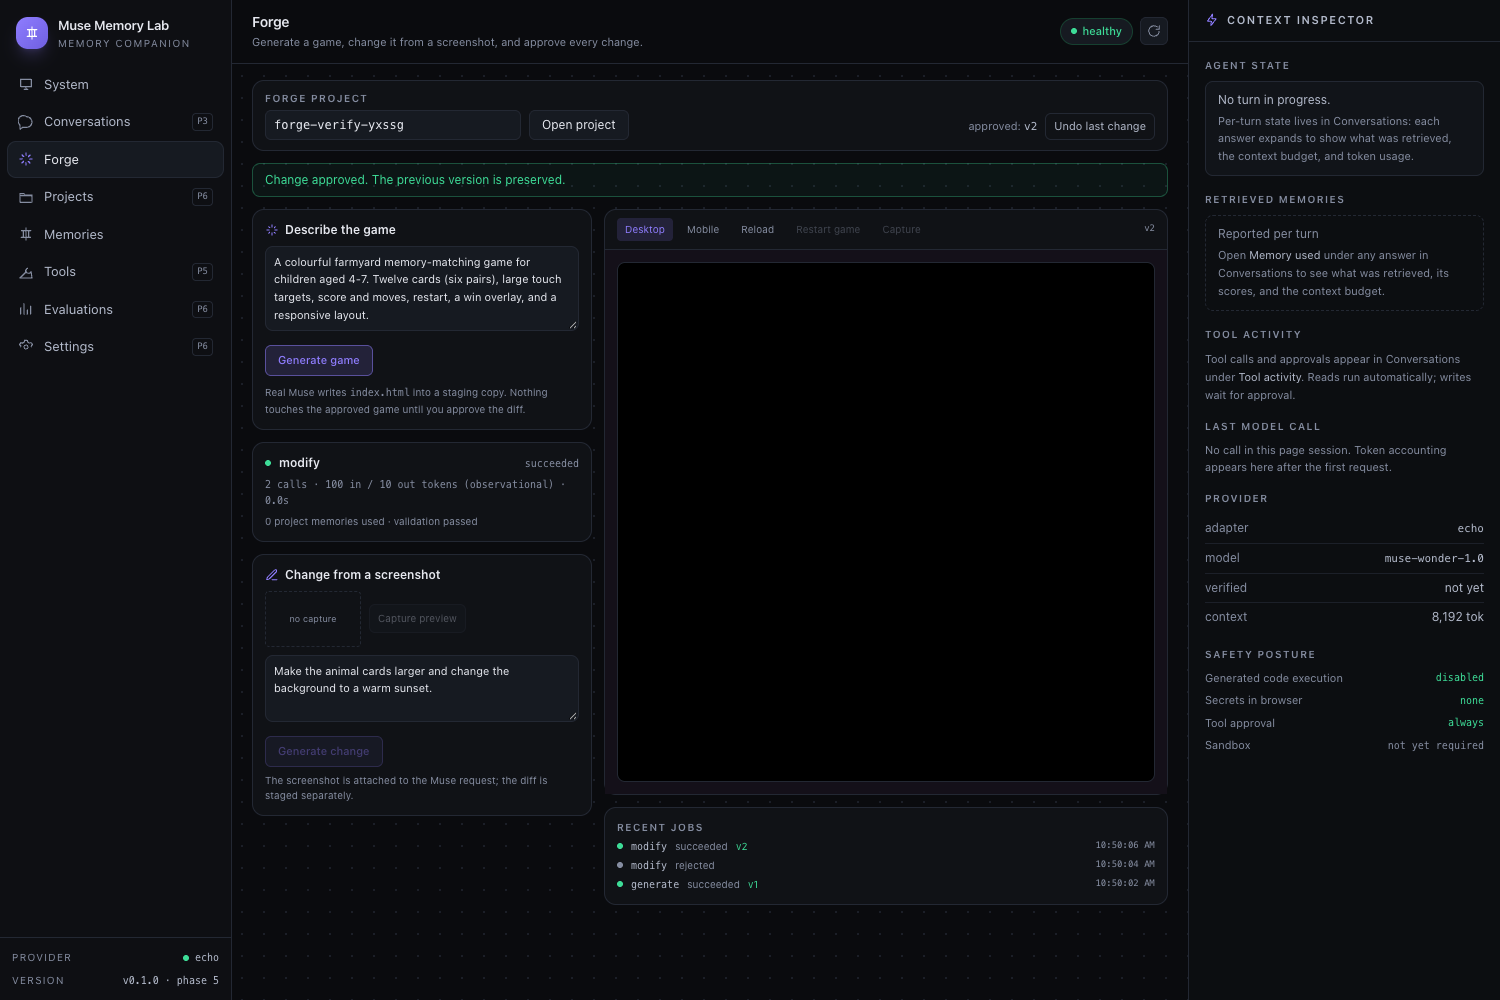
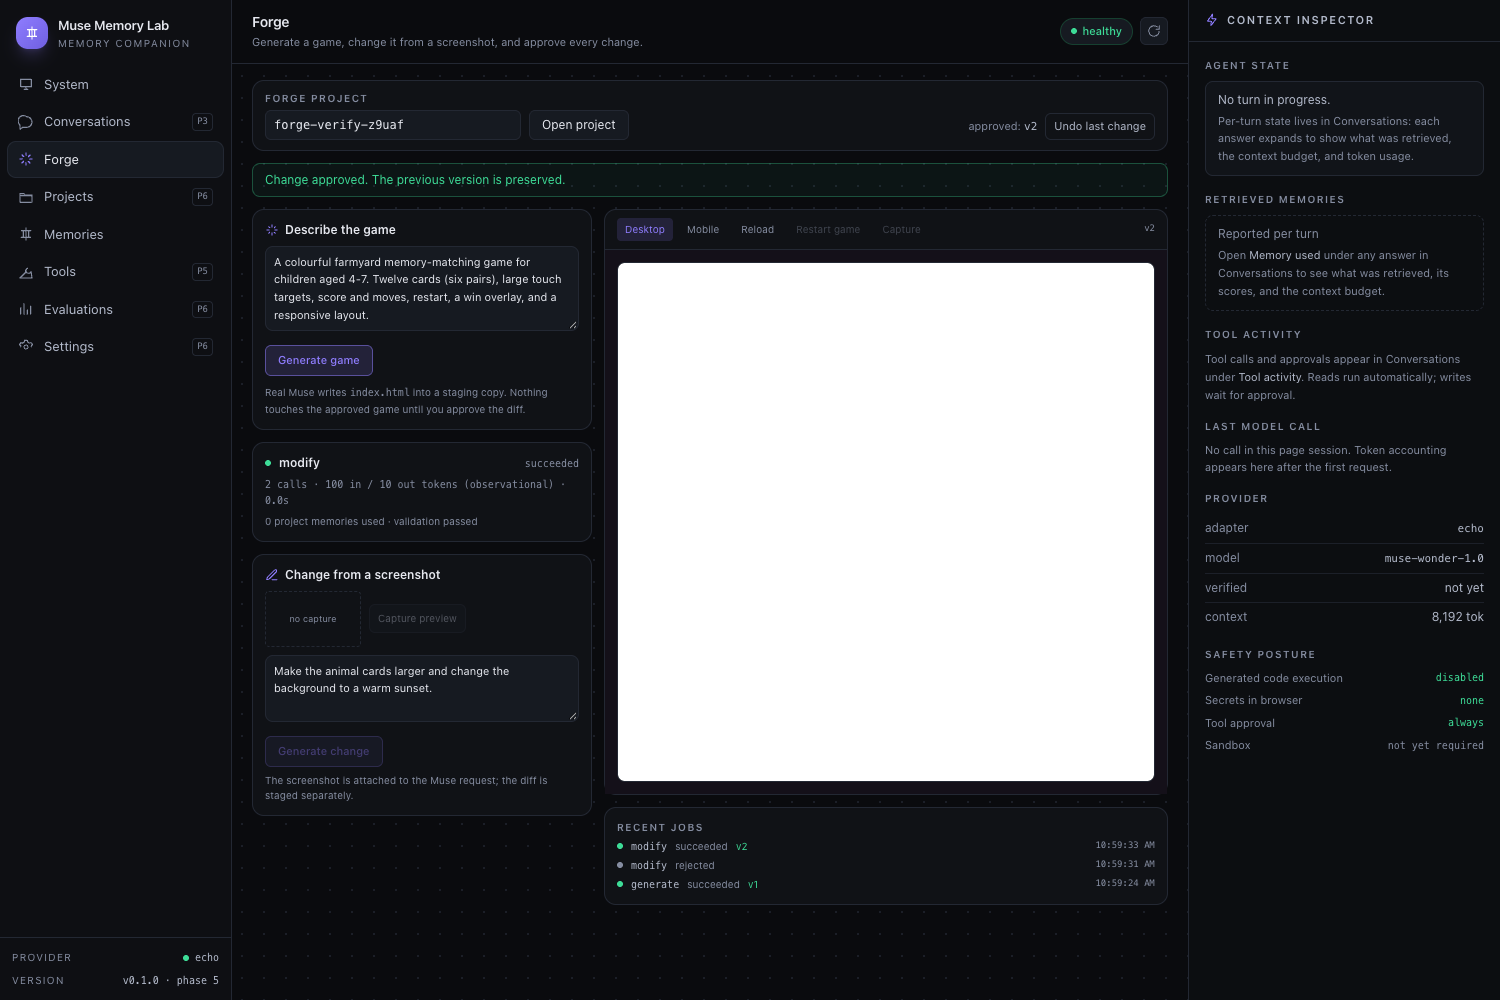
fix(forge): inject capture bridge before Phaser loads (D2 follow-up)
The bridge was inserted at the end of <head>. When the generated game put the
Phaser CDN script in <head>, the library had already assigned window.Phaser;
redefining the property with an accessor replaced it with undefined, so the
preview threw "Cannot read properties of undefined (reading 'Scene')".

- inject the bridge immediately after <head> opens, before any script
- verified on the real Muse-generated game: Phaser 3.80.1 loads, the preview
  renders, and capture via renderer.snapshot returns a 142 KB non-blank PNG
  (luminance range 197, 4,093 colourful pixels)
- full browser regression still 9/9 with no console errors
- docs record Phase 10 results, including the remaining real-modification run
  blocked by Muse subscription quota (429)

295 tests pass; lint, typecheck and build clean.

Changed region(s): [[0.3987, 0.248, 0.7667, 0.806]]

diff --git a/apps/server/src/routes/forge.ts b/apps/server/src/routes/forge.ts
@@ -236,8 +236,13 @@ window.addEventListener('error',function(event){
 });
 })();</script>`;
 function withCaptureBridge(html: string): string {
-  // Before the game script: the bridge must be able to wrap Phaser.Game.
-  if (html.includes('</head>')) return html.replace('</head>', `${CAPTURE_BRIDGE}</head>`);
+  // Must run before the Phaser CDN script: defining window.Phaser after the CDN
+  // has assigned it would replace the library with our accessor.
+  const head = /<head[^>]*>/i.exec(html);
+  if (head) {
+    const at = head.index + head[0].length;
+    return `${html.slice(0, at)}${CAPTURE_BRIDGE}${html.slice(at)}`;
+  }
   return `${CAPTURE_BRIDGE}${html}`;
 }
 

diff --git a/docs/MUSE_FORGE_MVP.md b/docs/MUSE_FORGE_MVP.md
@@ -111,3 +111,67 @@ valid and Phaser-based, but the game threw at runtime (`Graphics.fillStar` does 
 preview now reports runtime errors to the host, shows a red badge, and **disables approval**
 until the change is regenerated or rejected. The measured run predates that gate: it approved
 v2, observed the error, and rolled back to v1.
+
+## Phase 10 hardening (audit fixes)
+
+**D1 — modifications start from the approved source.** A modify job now copies the
+current approved `index.html` into staging, records `base_version` on the job, and tells Muse to
+edit that file in place rather than regenerate it. Modifying a project with no approved version
+is refused (409). Tests assert that unrelated source (`FARM_MARKER`) survives a modification.
+
+**D2 — valid captures.** The capture bridge is injected into `<head>` and wraps `Phaser.Game`
+when the CDN assigns `window.Phaser`, so capture can use `renderer.snapshot()` instead of
+`canvas.toDataURL()` on a cleared WebGL buffer. Captures with no luminance range or colour
+variety are rejected before they reach a model request; screenshots smaller than 32×32 are
+rejected by the server. The browser test asserts a non-blank image captured via
+`renderer.snapshot`.
+
+**D3 — server-side runtime verification.** Approval loads the staged game in headless Chrome
+(`playwright-core`, already installed) and fails on page errors, console errors or a missing
+canvas. A failing check marks the job failed, stores the errors and returns 422; nothing is
+promoted. `pnpm verify:runtime` proves a valid Phaser scene passes and a `Graphics.fillStar`
+scene is rejected.
+
+**D4–D6 — ancestry, concurrency, integrity.** Versions record `base_version`, `job_id` and a
+`sha256`. Promotion is compare-and-swap under a per-project lock; a stale base returns 409
+`version_conflict`. The promoted bytes are re-hashed, rollback refuses a corrupted version,
+and at most two jobs may run per project. Preview, diff and current-version reads refuse
+symlinks and paths outside the project (the confirmed read vulnerability is fixed and tested
+with a staged symlink to `/etc/passwd`).
+
+**S2–S6.** Preview CSP adds `base-uri`, `form-action` and `object-src` restrictions; staging is
+deleted after promotion; screenshot dimensions and PNG magic bytes are validated; job logs and
+jobs are bounded; no shell, filesystem or network tools were added to the agent runtime.
+
+### Remaining limitations after Phase 10
+
+- Runtime verification proves the game loads without errors; it does not prove every rule or
+  win condition. Gameplay is still verified by the browser script, not automatically.
+- Approval launches a headless browser (~2–3 s); machines without Chrome cannot verify.
+- Single project/file, loopback-only, no authentication; the preview is sandboxed but served
+  from the app origin.
+- A broad visual request can still exceed the runtime budget; narrow requests are required for
+  a predictable demo.
+
+
+## Phase 10 verification results
+
+| Item | Result | Evidence |
+| --- | --- | --- |
+| D1 source-aware modify | **PASS in deterministic tests** | staging seeded from v1; `base_version=1`; `FARM_MARKER` survives; empty project returns 409 |
+| D2 valid capture | **PASS on the real generated game** | `renderer.snapshot`; 142 KB PNG; luminance range 197; 4,093 colourful pixels |
+| D2 blank rejection | **PASS** | unit tests for black/single-colour/rendered frames; client refuses blank |
+| D3 runtime verification | **PASS** | `pnpm verify:runtime`: valid scene ok, `Graphics.fillStar` rejected |
+| Symlink read blocker | **PASS** | staged symlink to `/etc/passwd` cannot be previewed or diffed (409) |
+| D4–D6 ancestry/CAS/lock | **PASS** | stale approval 409, tampered rollback 409, job cap 429 |
+| Browser regression | **PASS** | `pnpm verify:forge` 9/9, snapshot capture asserted |
+| Real Muse modification | **BLOCKED (quota)** | CLI returned 429 "Subscription quota exhausted … resets 2026-10-27T02:31:28Z" |
+
+A real generation (89.6 s, 7 calls, 249,501 input tokens) was approved and its capture was
+verified after fixing a bridge-ordering bug: defining `window.Phaser` after the CDN had assigned
+it replaced the library, so the preview had no canvas. The bridge now injects before the first
+script in `<head>`; the real game then loaded Phaser 3.80.1 and produced a meaningful snapshot.
+
+The real modification could not be re-run after the fix because the Muse subscription window was
+exhausted. Deterministic tests prove the source-aware path; the next real run should be done
+after the quota resets.
